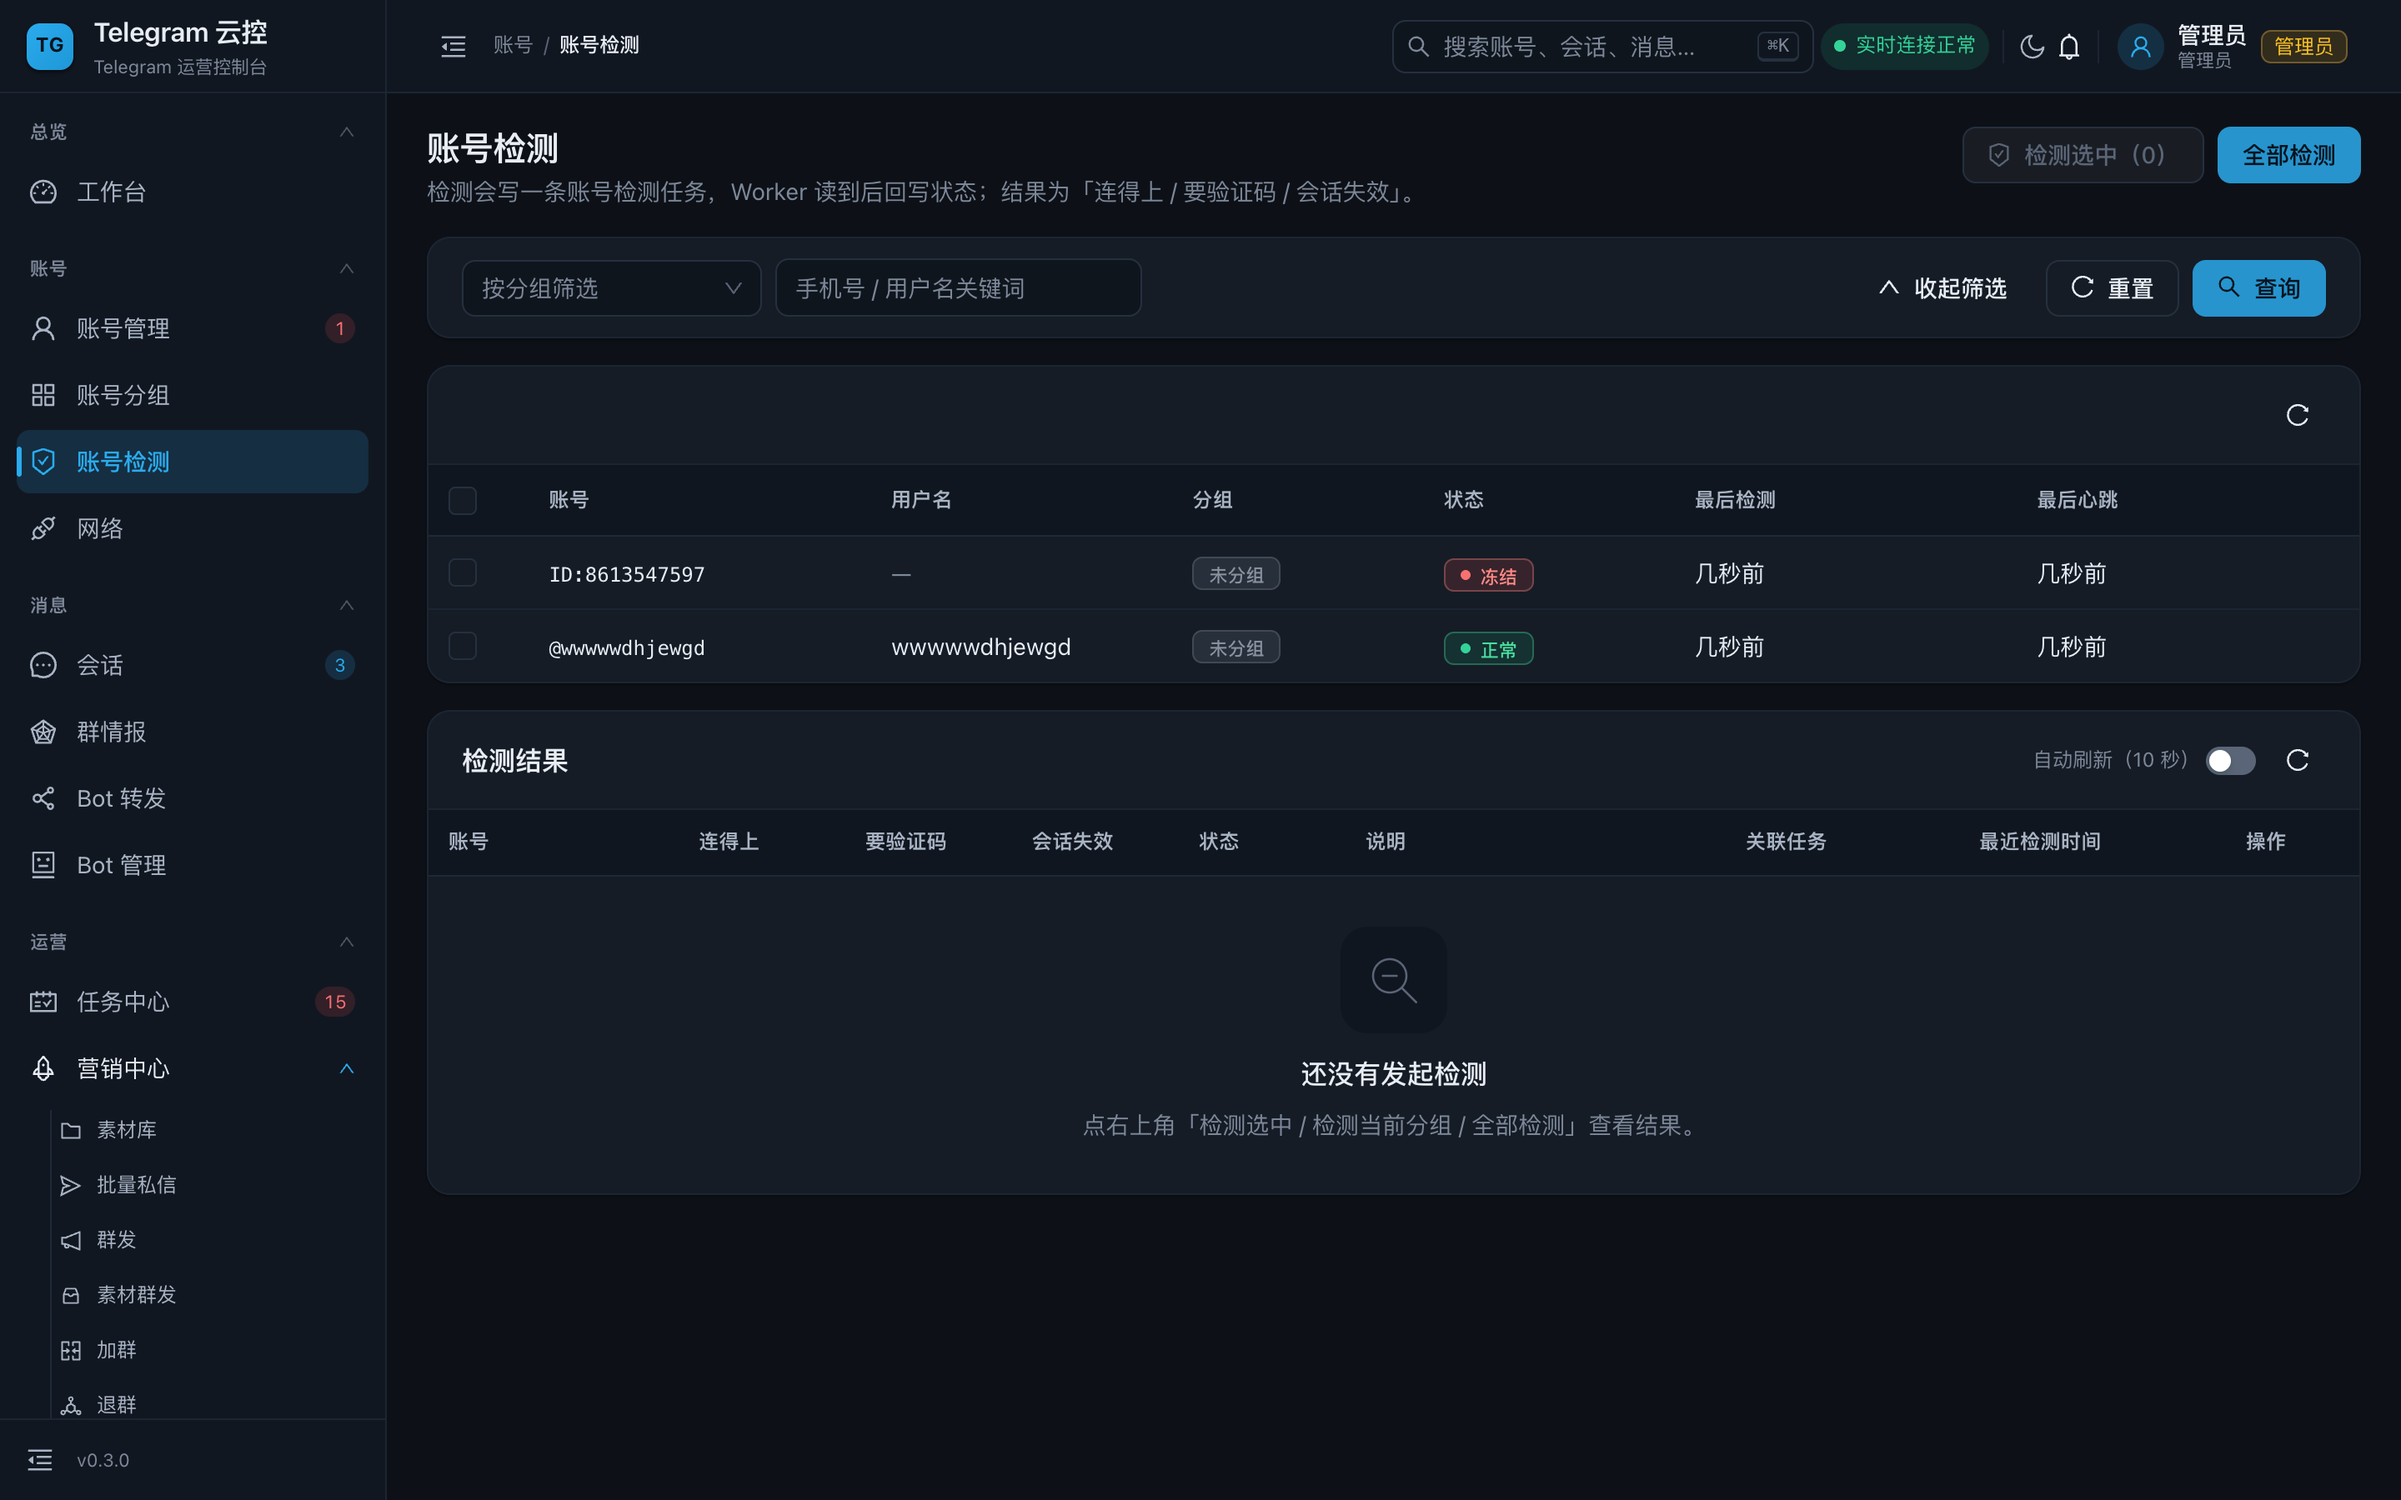
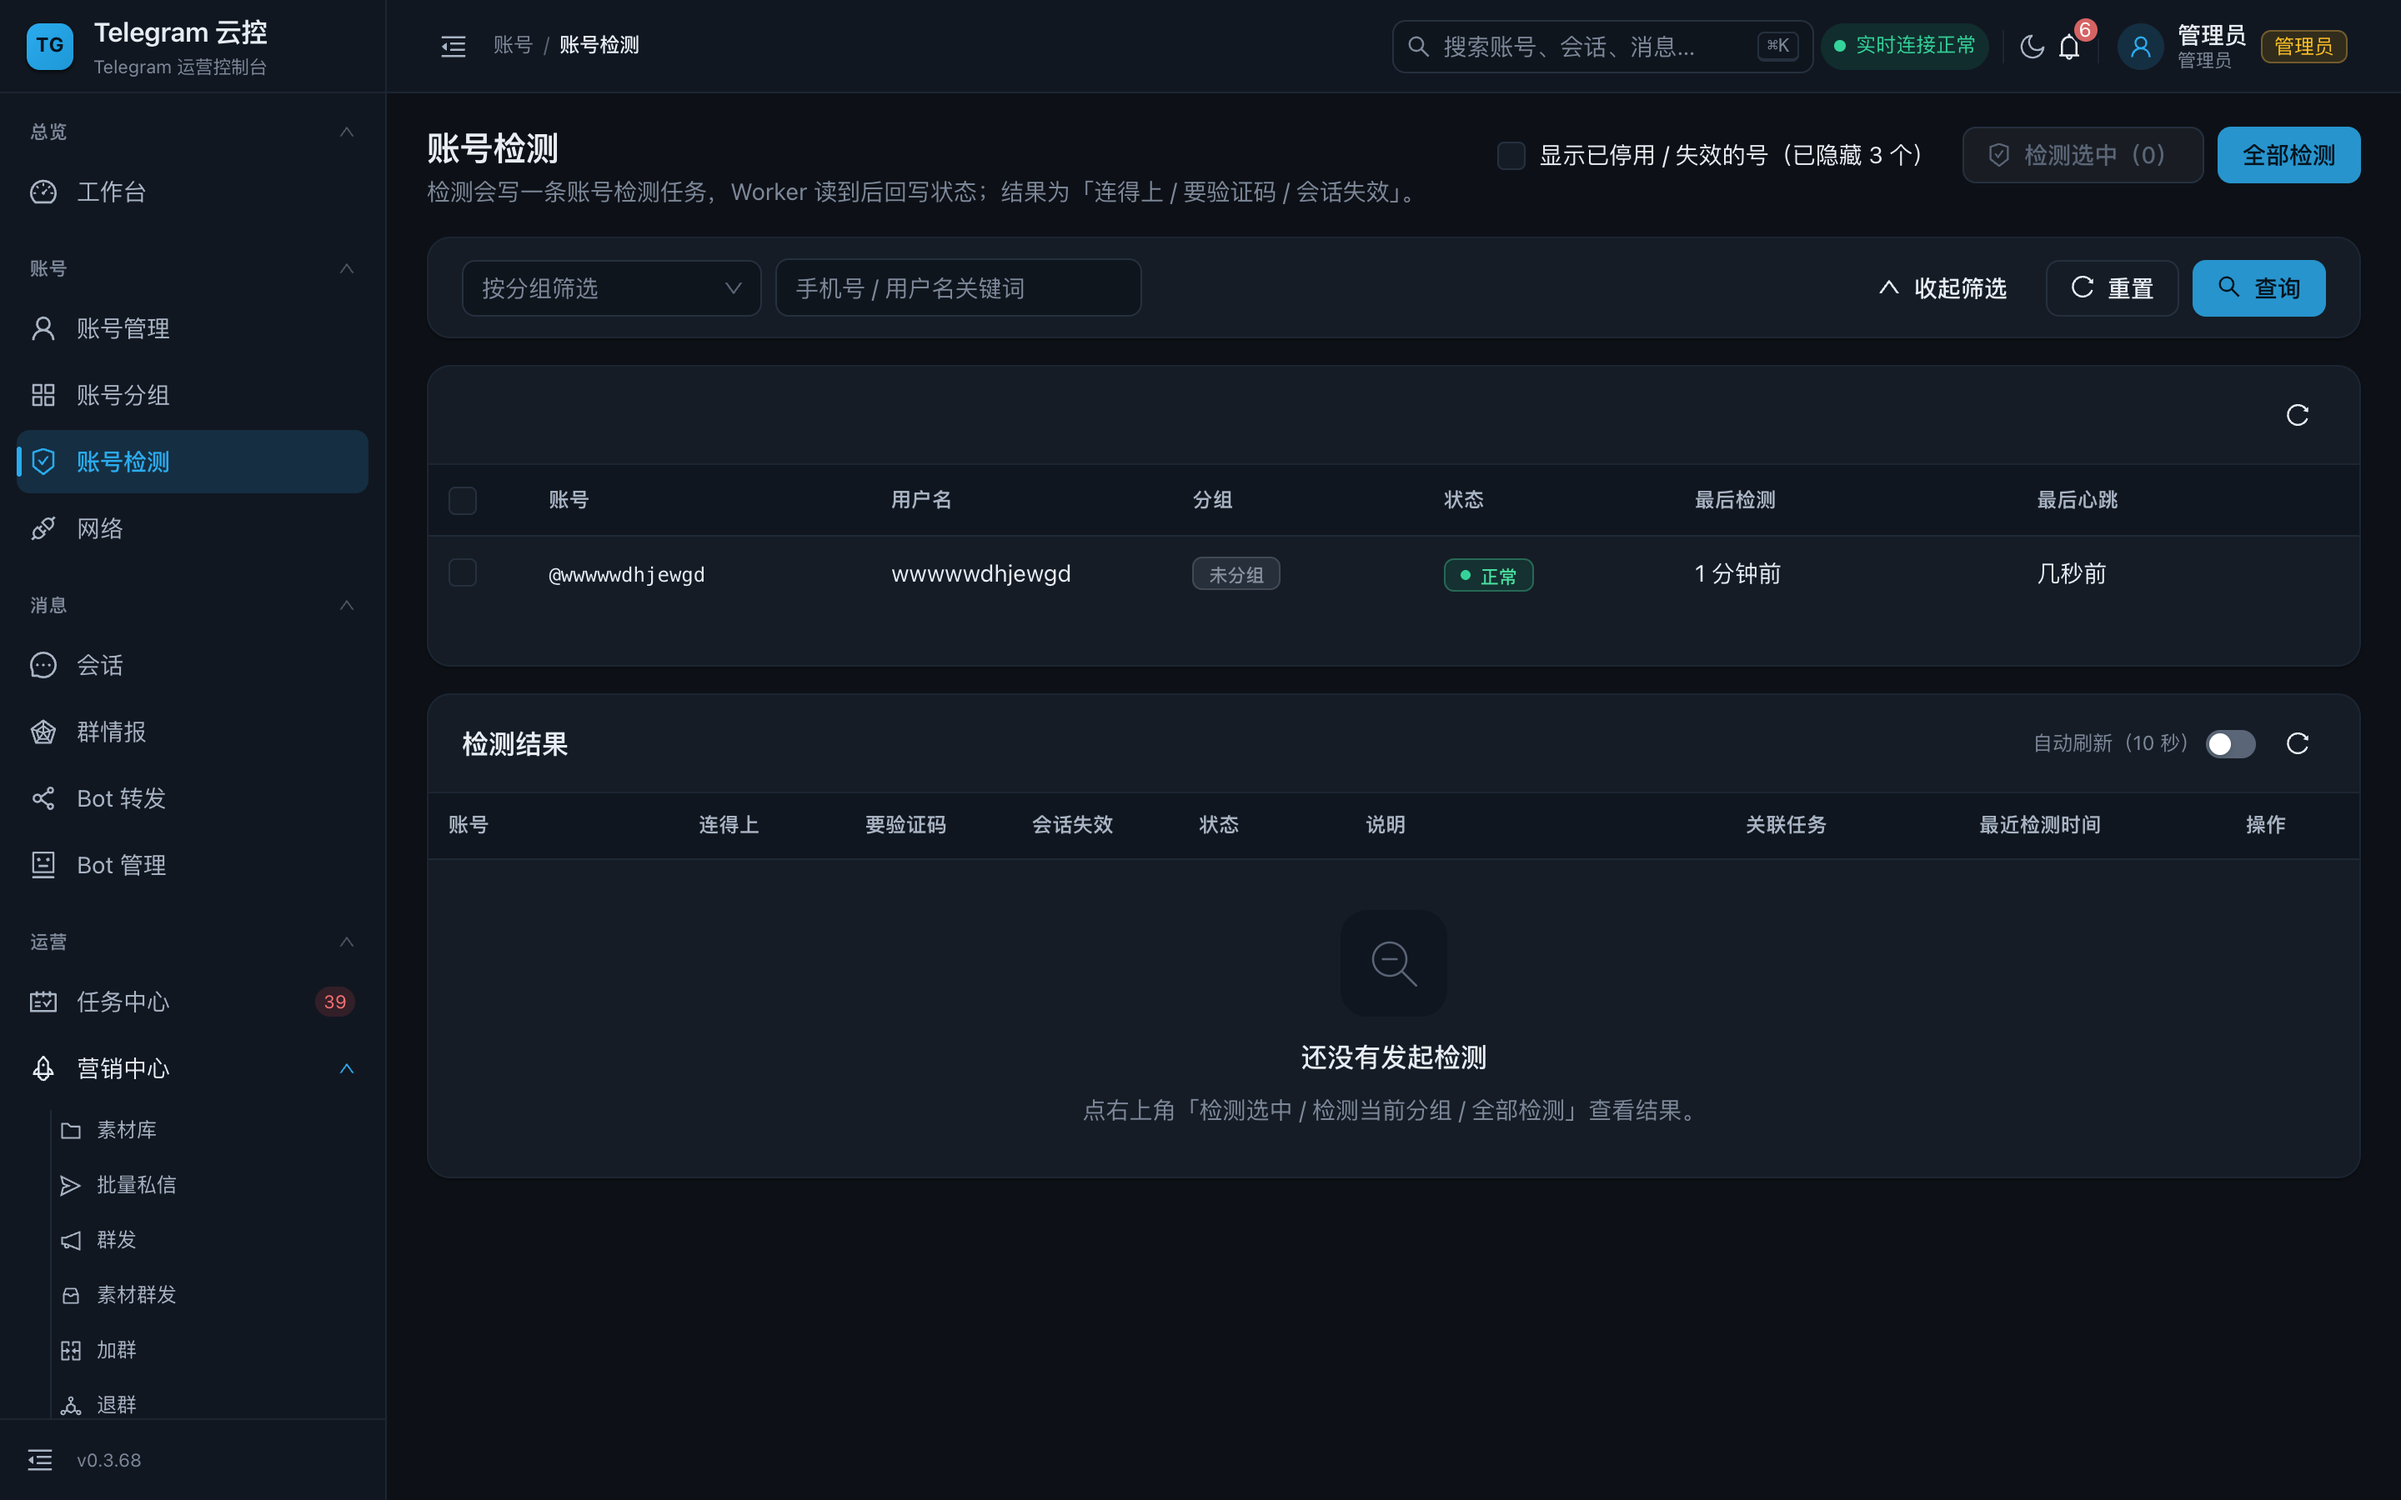
v0.3.70：账号检测页默认隐藏已停用/失效的号
变更：
- 检测页默认只列还能检测的号（排除 disabled / invalid / dead），不再占列表位置
- 顶部加开关「显示已停用 / 失效的号（已隐藏 N 个）」
- 只影响该视图：账号管理页仍可看到全部（分类芯片能筛出已停用），统计口径不变

验证：前端 tsc 与 build 通过；检测页截图重生成

版本：VERSION → 0.3.70

diff --git a/frontend/src/pages/Detection.tsx b/frontend/src/pages/Detection.tsx
@@ -85,6 +85,22 @@ export default function Detection() {
     void runCheck({ account_ids: failedRows.map((row) => row.account_id), scope: 'selected' }, `重试 ${failedRows.length} 个失败项`);
   };
 
+  // 封号 / 停用 / 失效的号不该挂在检测页占位置——默认只列还能检测的号，
+  // 需要时用开关把它们调出来（检测本身对失效号没意义：它连不上）。
+  const [showDead, setShowDead] = useState(false);
+  const visibleAccounts = useMemo(() => {
+    const items = accounts.data?.items ?? [];
+    if (showDead) return items;
+    return items.filter((item) => item.status !== 'disabled' && item.status !== 'dead' && item.status !== 'invalid');
+  }, [accounts.data, showDead]);
+  const hiddenCount = (accounts.data?.items?.length ?? 0) - visibleAccounts.length;
+
+  const deadToggle = (
+    <Checkbox checked={showDead} onChange={(e) => setShowDead(e.target.checked)}>
+      显示已停用 / 失效的号{hiddenCount > 0 ? `（已隐藏 ${hiddenCount} 个）` : ''}
+    </Checkbox>
+  );
+
   const pageIds = useMemo(() => (accounts.data?.items ?? []).map((item) => item.id), [accounts.data]);
 
   const accountColumns: ColumnsType<AccountOut> = [
@@ -219,6 +235,7 @@ export default function Detection() {
       description="检测会写一条账号检测任务，Worker 读到后回写状态；结果为「连得上 / 要验证码 / 会话失效」。"
       actions={
         <Space wrap>
+        {deadToggle}
           <Button
             icon={<SafetyCertificateOutlined />}
             disabled={!selection.count}
@@ -280,7 +297,7 @@ export default function Detection() {
       <DataTable<AccountOut>
         rowKey="id"
         columns={accountColumns}
-        dataSource={accounts.data?.items ?? []}
+        dataSource={visibleAccounts}
         loading={accounts.loading}
         error={accounts.error}
         onRetry={() => void accounts.reload()}

diff --git a/README.md b/README.md
@@ -12,7 +12,7 @@
 <p>
   <a href="#许可证"><img src="https://img.shields.io/badge/license-待定-yellow.svg" alt="License"></a>
   <a href="https://github.com/cafinxnull/telegram-cloud-control/releases"><img src="https://img.shields.io/github/v/release/cafinxnull/telegram-cloud-control?label=release&color=2AABEE" alt="Release"></a>
-  <a href="https://github.com/cafinxnull/telegram-cloud-control/releases"><img src="https://img.shields.io/badge/version-0.3.69-2AABEE.svg" alt="Version"></a>
+  <a href="https://github.com/cafinxnull/telegram-cloud-control/releases"><img src="https://img.shields.io/badge/version-0.3.70-2AABEE.svg" alt="Version"></a>
   <a href="https://github.com/cafinxnull/telegram-cloud-control/releases"><img src="https://img.shields.io/badge/changelog-%E6%9B%B4%E6%96%B0%E8%AE%B0%E5%BD%95-blue.svg" alt="Changelog"></a>
   <a href="https://github.com/cafinxnull/telegram-cloud-control/stargazers"><img src="https://img.shields.io/github/stars/cafinxnull/telegram-cloud-control?label=stars&color=f5a623" alt="Stars"></a>
   <a href="https://github.com/cafinxnull/telegram-cloud-control/issues"><img src="https://img.shields.io/github/issues/cafinxnull/telegram-cloud-control?label=issues" alt="Issues"></a>

diff --git a/CHANGELOG.md b/CHANGELOG.md
@@ -7,6 +7,24 @@
 
 ---
 
+## v0.3.70 — 2026-03-30
+
+主题：**失效/停用的号不再挂在账号检测页**。
+
+### 变更
+
+- 账号检测页默认**只列还能检测的号**：已停用（`disabled`）、失效（`invalid`）、永久双向（`dead`）
+  的号自动隐藏，不再占着列表位置——它们连不上，检测对它们没有意义，一遍遍出现在列表里只会干扰判断。
+- 顶部加开关「**显示已停用 / 失效的号（已隐藏 N 个）**」，需要时调出来看，隐藏了几个也写在明处。
+- 隐藏只影响**这个视图**：账号管理页仍能看到全部号（那边的分类芯片可以一点筛出「已停用」），
+  统计口径与工作台也不变——是「不挡路」，不是「删除」。
+
+### 验证
+
+前端 tsc 与 build 通过；账号检测页截图重生成。
+
+---
+
 ## v0.3.69 — 2026-03-30
 
 主题：**账号页按状态分类**——冻结 / 失效 / 待验证码 / 停用各自成类。
